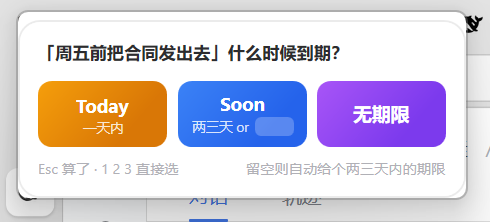
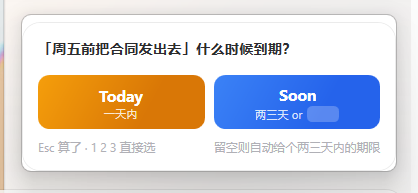
时间面板摆到面板附近、去掉「无期限」、修磁贴圆角
1. **时间面板跑到屏幕角落去了。** 归类窗的定位规则是「选区右下角往下 10px，
   下面放不下就翻到选区上方」，而手动模式我传的选区是 0,0,0,0，自然跑到角落。
   改成**把记忆面板自己当成那个「选区」**传进去 —— 面板在右下角时下面必然放不下，
   它就翻到面板正上方、右边缘对齐。

   实测：归类窗摆到物理 (2140,550) 390x165，面板在 (2105,725)-(2530,1350)，
   两者右边缘都是 2530 —— 贴着面板正上方。

2. **既然是 DDL 就不该有「无期限」。** 手动模式藏掉第三个按钮，
   把它占的 * 列和前面的 7px 间隔列一起收成 0，剩下 Today / Soon 两个自动撑满半屏。

3. **Wantdo 磁贴上边缘不是圆角。** 模板是 <Border CornerRadius="10" ClipToBounds="True">
   里放 <Image> —— 但 **ClipToBounds 只按矩形裁，Border 的 CornerRadius 也不裁子元素**，
   上面那张图直接盖过了圆角。改成把图片当 Border 的**底色**（ImageBrush）——
   Border 的 CornerRadius 会裁剪自己的底色。纸篓卡片是同一个写法，一起修了。

回归：
  截图主流程正常 · 数据层 24 条目 × 全部衰减字段逐字段完全一致（容差 1e-9）
  legacy 单测 26 项全过
  --flow= pos/theme/trash/manual/multi/add 六条全部无异常
  包 121.3 KB

diff --git a/native/src/PanelWindow.xaml b/native/src/PanelWindow.xaml
@@ -173,9 +173,20 @@
                         <RowDefinition Height="*"/>
                     </Grid.RowDefinitions>
 
-                    <Image Grid.Row="0" Source="{Binding Thumb}" Stretch="UniformToFill"
-                           Visibility="{Binding HasThumb, Converter={StaticResource BoolToVis}}"/>
-                    <Border Grid.Row="0" Visibility="{Binding HasThumb, Converter={StaticResource BoolToVis}, ConverterParameter=invert}">
+                    <!--
+                        图片走 Border 的**底色**（ImageBrush）而不是当子元素 ——
+                        Border 的 CornerRadius 会裁剪它自己的底色，但**不会裁剪子元素**，
+                        ClipToBounds 也只按矩形裁。原来上面这张图就是这么盖过圆角的，
+                        看起来上边缘是直角。
+                    -->
+                    <Border Grid.Row="0" CornerRadius="10,10,0,0"
+                            Visibility="{Binding HasThumb, Converter={StaticResource BoolToVis}}">
+                        <Border.Background>
+                            <ImageBrush ImageSource="{Binding Thumb}" Stretch="UniformToFill"/>
+                        </Border.Background>
+                    </Border>
+                    <Border Grid.Row="0" CornerRadius="10,10,0,0"
+                            Visibility="{Binding HasThumb, Converter={StaticResource BoolToVis}, ConverterParameter=invert}">
                         <Border.Background>
                             <LinearGradientBrush StartPoint="0,0" EndPoint="1,1">
                                 <GradientStop Color="#a78bfa" Offset="0"/>
@@ -249,9 +260,20 @@
                         <RowDefinition Height="*"/>
                         <RowDefinition Height="Auto"/>
                     </Grid.RowDefinitions>
-                    <Image Grid.Row="0" Source="{Binding Thumb}" Stretch="UniformToFill"
-                           Visibility="{Binding HasThumb, Converter={StaticResource BoolToVis}}"/>
-                    <Border Grid.Row="0" Visibility="{Binding HasThumb, Converter={StaticResource BoolToVis}, ConverterParameter=invert}">
+                    <!--
+                        图片走 Border 的**底色**（ImageBrush）而不是当子元素 ——
+                        Border 的 CornerRadius 会裁剪它自己的底色，但**不会裁剪子元素**，
+                        ClipToBounds 也只按矩形裁。原来上面这张图就是这么盖过圆角的，
+                        看起来上边缘是直角。
+                    -->
+                    <Border Grid.Row="0" CornerRadius="10,10,0,0"
+                            Visibility="{Binding HasThumb, Converter={StaticResource BoolToVis}}">
+                        <Border.Background>
+                            <ImageBrush ImageSource="{Binding Thumb}" Stretch="UniformToFill"/>
+                        </Border.Background>
+                    </Border>
+                    <Border Grid.Row="0" CornerRadius="10,10,0,0"
+                            Visibility="{Binding HasThumb, Converter={StaticResource BoolToVis}, ConverterParameter=invert}">
                         <Border.Background>
                             <LinearGradientBrush StartPoint="0,0" EndPoint="1,1">
                                 <GradientStop Color="#cbd5e1" Offset="0"/>

diff --git a/native/src/ChooserWindow.xaml b/native/src/ChooserWindow.xaml
@@ -86,8 +86,8 @@
                     <ColumnDefinition Width="*"/>
                     <ColumnDefinition Width="7"/>
                     <ColumnDefinition Width="*"/>
-                    <ColumnDefinition Width="7"/>
-                    <ColumnDefinition Width="*"/>
+                    <ColumnDefinition x:Name="ColGap3" Width="7"/>
+                    <ColumnDefinition x:Name="ColWant" Width="*"/>
                 </Grid.ColumnDefinitions>
 
                 <Button Grid.Column="0" Style="{StaticResource ChoiceBtn}" Click="OnPickToday">
@@ -134,7 +134,7 @@
                     </StackPanel>
                 </Button>
 
-                <Button Grid.Column="4" Style="{StaticResource ChoiceBtn}" Click="OnPickWant">
+                <Button x:Name="WantBtn" Grid.Column="4" Style="{StaticResource ChoiceBtn}" Click="OnPickWant">
                     <Button.Background>
                         <LinearGradientBrush StartPoint="0,0" EndPoint="0.6,1">
                             <GradientStop Color="#a855f7" Offset="0"/>

diff --git a/native/src/PanelWindow.xaml.cs b/native/src/PanelWindow.xaml.cs
@@ -598,6 +598,20 @@ namespace RemeberEr
 
         // ------------------------------------------------------------ UI 验收流程
 
+        /// <summary>窗口落在哪块屏上（按中心点找）。</summary>
+        static Interop.RECT MonitorOf(Interop.RECT r)
+        {
+            int cx = (r.Left + r.Right) / 2, cy = (r.Top + r.Bottom) / 2;
+            foreach (var m in Interop.AllMonitors())
+                if (cx >= m.Left && cx < m.Right && cy >= m.Top && cy < m.Bottom) return m;
+            return new Interop.RECT
+            {
+                Left = 0, Top = 0,
+                Right = Interop.GetSystemMetrics(0),
+                Bottom = Interop.GetSystemMetrics(1),
+            };
+        }
+
         /// <summary>抓某个别的窗口（归类窗 / 时间面板）自己那块。</summary>
         void ShotWindow(Window w, string name)
         {
@@ -1454,21 +1468,27 @@ namespace RemeberEr
                 return;
             }
 
-            Interop.RECT cur;
-            double sc;
-            if (!Interop.MonitorUnderCursor(out cur, out sc))
+            // 让时间面板贴着记忆面板摆。
+            //
+            // 归类窗的定位规则是「选区右下角往下 10px，下面放不下就翻到选区上方」，
+            // 所以这里**把面板自己当成那个「选区」**传进去 —— 面板在屏幕右下角时，
+            // 下面必然放不下，它就翻到面板正上方、右边缘对齐。不传的话
+            // （原来传的是 0,0,0,0）它会跑到屏幕角落去。
+            Interop.RECT panelRect;
+            Interop.GetWindowRect(_hwnd, out panelRect);
+            Interop.RECT mon = MonitorOf(panelRect);
+            var sel = new Interop.RECT
             {
-                cur = new Interop.RECT
-                {
-                    Left = 0, Top = 0,
-                    Right = Interop.GetSystemMetrics(0),
-                    Bottom = Interop.GetSystemMetrics(1),
-                };
-                sc = 1.0;
-            }
+                Left = panelRect.Left - mon.Left,
+                Top = panelRect.Top - mon.Top,
+                Right = panelRect.Right - mon.Left,
+                Bottom = panelRect.Bottom - mon.Top,
+            };
+            double sc = Interop.ScaleOf(mon);
 
             var p = new ChooserWindow.Payload { Title = title, App = "", Manual = true };
-            var w = new ChooserWindow(p, cur, sc, 0, 0, 0, 0);
+            var w = new ChooserWindow(p, mon, sc, sel.Left, sel.Top,
+                                      sel.Right - sel.Left, sel.Bottom - sel.Top);
             _chooser = w;   // 验收流程要能驱动它
             w.Decided += (choice, typed, days) =>
             {

diff --git a/native/src/ChooserWindow.xaml.cs b/native/src/ChooserWindow.xaml.cs
@@ -67,8 +67,11 @@ namespace RemeberEr
                 SrcText.Visibility = Visibility.Collapsed;
                 HeadText.Text = string.IsNullOrEmpty(p.Title) ? "这件事什么时候到期？" : "「" + p.Title + "」什么时候到期？";
                 TitleBox.Visibility = Visibility.Collapsed;
-                WantLabel.Text = "无期限";
-                WantSub.Visibility = Visibility.Collapsed;
+                // 手动记的是 Todo —— 既然是 DDL，就不该有「无期限」这个选项。
+                // 藏掉第三个按钮，把它占的列和前面的间隔列一起收成 0，剩下两个自动撑满。
+                WantBtn.Visibility = Visibility.Collapsed;
+                ColWant.Width = new GridLength(0);
+                ColGap3.Width = new GridLength(0);
                 _hDip = H_MANUAL_DIP;
             }
 

diff --git a/CHANGELOG.md b/CHANGELOG.md
@@ -374,6 +374,29 @@ Wantdo 本来就没有期限，照旧直接落库。
 现在中间按钮里是「两三天 or [输入框]」：一行小字 + 一个可以填天数的浅色小框，
 和两侧同一个字号，不再是个突兀的大白框。
 
+### 14. 时间面板的位置 / 去掉「无期限」/ 磁贴圆角 · 自己
+
+**A · 时间面板跑到屏幕角落去了。** 归类窗的定位规则是「选区右下角往下 10px，
+下面放不下就翻到选区上方」，而手动模式我传的选区是 `0,0,0,0`，它自然就跑到角落。
+改成**把记忆面板自己当成那个「选区」**传进去 —— 面板在右下角时下面必然放不下，
+它就翻到面板正上方、右边缘对齐。
+
+```
+归类窗摆到物理 (2140,550) 390x165（屏 0,0-2560,1440 缩放 1.25）
+面板在 (2105,725)-(2530,1350) -> 面板右边缘 2530 = 面板右边缘，摆在正上方
+```
+
+**B · 既然是 DDL 就不该有「无期限」。** 手动模式藏掉第三个按钮，
+把它占的 `*` 列和前面的 7px 间隔列一起收成 0，剩下两个自动撑满半屏。
+
+**C · Wantdo 磁贴上边缘不是圆角。** 模板是
+`<Border CornerRadius="10" ClipToBounds="True">` 里放 `<Image>` ——
+但 **`ClipToBounds` 只按矩形裁，Border 的 CornerRadius 也不会裁剪子元素**，
+所以上面那张图直接盖过了圆角。
+
+改成把图片当 Border 的**底色**（`ImageBrush`）—— Border 的 CornerRadius
+**会**裁剪自己的底色。纸篓卡片是同一个写法，一起修了。
+
 ---
 
 ## v0.9.0
